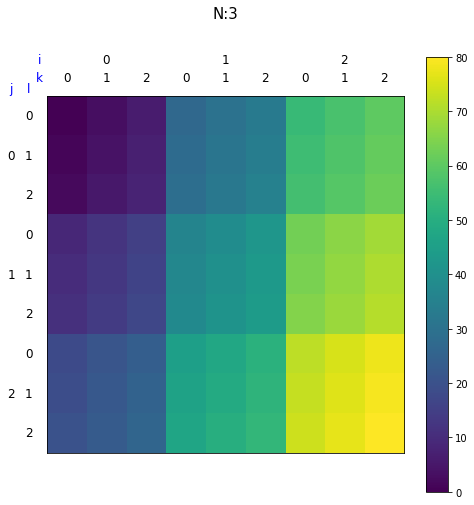
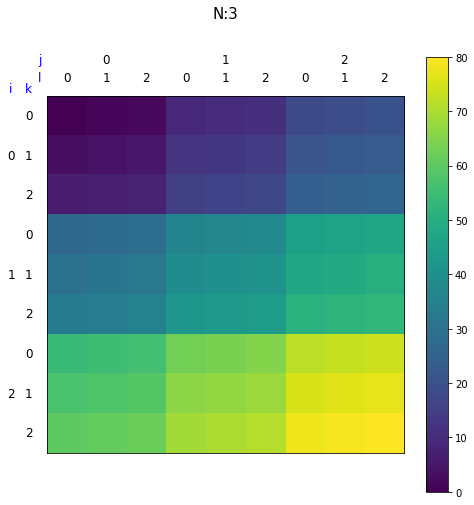
update tensorVis

diff --git a/fastwedge/tensorVis.py b/fastwedge/tensorVis.py
@@ -35,20 +35,20 @@ def __vis2dTensorKarnaugh(tensor: np.ndarray, size: int, title: str):
     listTensor = tensor.tolist()
     twoD = [
         [abs(listTensor[i][j])
-         for i in range(N)]
-        for j in range(N)
+         for j in range(N)]
+        for i in range(N)
     ]
     params = __vis_subroutine(N, twoD, size, title)
     x = 0
     for i in range(N):
-        plt.text((x+1/2)/(N), 1.05, str(i), **params)
+        plt.text(-0.05, 1-(x+1/2)/(N), str(i), **params)
         x += 1
-    plt.text(-0.02, 1.05, "i", color="blue", **params)
+    plt.text(-0.05, 1.02, "i", color="blue", **params)
     y = 0
     for j in range(N):
-        plt.text(-0.05, 1-(y+1/2)/(N), str(j),  **params)
+        plt.text((y+1/2)/(N), 1.05, str(j),  **params)
         y += 1
-    plt.text(-0.05, 1.02, "j",  color="blue", **params)
+    plt.text(-0.02, 1.05, "j",  color="blue", **params)
     plt.show()
 
 
@@ -67,26 +67,26 @@ def __vis4dTensorKarnaugh(tensor: np.ndarray, size: int, title: str):
     listTensor = tensor.tolist()
     twoD = [
         [abs(listTensor[i][j][k][l_])
-         for i, j in itertools.product(range(N), range(N))]
-        for k, l_ in itertools.product(range(N), range(N))
+         for k, l_ in itertools.product(range(N), range(N))]
+        for i, j in itertools.product(range(N), range(N))
     ]
     params = __vis_subroutine(N, twoD, size, title)
     x = 0
     for i in range(N):
-        plt.text((x+N/2)/(N*N), 1.1, str(i), **params)
+        plt.text(-0.1, 1-(x+N/2)/(N*N), str(i), **params)
         for j in range(N):
-            plt.text((x+1/2)/(N*N), 1.05, str(j),  **params)
+            plt.text(-0.05, 1-(x+1/2)/(N*N), str(j),  **params)
             x += 1
-    plt.text(-0.02, 1.1, "i", color="blue", **params)
-    plt.text(-0.02, 1.05, "j", color="blue", **params)
+    plt.text(-0.10, 1.02,  "i", color="blue", **params)
+    plt.text(-0.05, 1.02, "j", color="blue", **params)
     y = 0
     for k in range(N):
-        plt.text(-0.1, 1-(y+N/2)/(N*N), str(k),  **params)
+        plt.text((y+N/2)/(N*N), 1.10, str(k),  **params)
         for l_ in range(N):
-            plt.text(-0.05, 1-(y+1/2)/(N*N), str(l_), **params)
+            plt.text((y+1/2)/(N*N), 1.05, str(l_), **params)
             y += 1
-    plt.text(-0.1, 1.02, "k",  color="blue", **params)
-    plt.text(-0.05, 1.02, "l",  color="blue", **params)
+    plt.text(-0.02, 1.10,  "k",  color="blue", **params)
+    plt.text(-0.02, 1.05, "l",  color="blue", **params)
     plt.show()
 
 
@@ -105,32 +105,32 @@ def __vis6dTensorKarnaugh(tensor: np.ndarray, size: int, title: str):
     listTensor = tensor.tolist()
     twoD = [
         [abs(listTensor[i][j][k][l_][m][n])
-         for i, j, k in itertools.product(range(N), range(N), range(N))]
-        for l_, m, n in itertools.product(range(N), range(N), range(N))
+         for l_, m, n in itertools.product(range(N), range(N), range(N))]
+        for i, j, k in itertools.product(range(N), range(N), range(N))
     ]
     params = __vis_subroutine(N, twoD, size, title)
     x = 0
     for i in range(N):
-        plt.text((x+N*N/2)/(N*N*N), 1.15, str(i), **params)
+        plt.text(-0.15, 1-(x+N*N/2)/(N*N*N), str(i), **params)
         for j in range(N):
-            plt.text((x+N/2)/(N*N*N), 1.10, str(j),  **params)
+            plt.text(-0.10, 1-(x+N/2)/(N*N*N), str(j),  **params)
             for k in range(N):
-                plt.text((x+1/2)/(N*N*N), 1.05, str(k),  **params)
+                plt.text(-0.05, 1-(x+1/2)/(N*N*N), str(k),  **params)
                 x += 1
-    plt.text(-0.02, 1.15, "i", color="blue", **params)
-    plt.text(-0.02, 1.10, "j", color="blue", **params)
-    plt.text(-0.02, 1.05, "k", color="blue", **params)
+    plt.text(-0.15, 1.02, "i", color="blue", **params)
+    plt.text(-0.10, 1.02, "j", color="blue", **params)
+    plt.text(-0.05, 1.02, "k", color="blue", **params)
     y = 0
     for l_ in range(N):
-        plt.text(-0.15, 1-(y+N*N/2)/(N*N*N), str(l_),  **params)
+        plt.text((y+N*N/2)/(N*N*N), 1.15, str(l_),  **params)
         for m in range(N):
-            plt.text(-0.10, 1-(y+N/2)/(N*N*N), str(m), **params)
+            plt.text((y+N/2)/(N*N*N), 1.10, str(m), **params)
             for n in range(N):
-                plt.text(-0.05, 1-(y+1/2)/(N*N*N), str(n), **params)
+                plt.text((y+1/2)/(N*N*N), 1.05, str(n), **params)
                 y += 1
-    plt.text(-0.15, 1.02, "l",  color="blue", **params)
-    plt.text(-0.10, 1.02, "m",  color="blue", **params)
-    plt.text(-0.05, 1.02, "n",  color="blue", **params)
+    plt.text(-0.02, 1.15, "l",  color="blue", **params)
+    plt.text(-0.02, 1.10, "m",  color="blue", **params)
+    plt.text(-0.02, 1.05, "n",  color="blue", **params)
     plt.show()
 
 
@@ -149,78 +149,40 @@ def __vis8dTensorKarnaugh(tensor: np.ndarray, size: int, title: str):
     listTensor = tensor.tolist()
     twoD = [
         [abs(listTensor[i][j][k][l_][m][n][o][p])
-         for i, j, k, l_ in itertools.product(range(N), range(N),
-                                              range(N), range(N))]
-        for m, n, o, p in itertools.product(range(N), range(N),
-                                            range(N), range(N))
+         for m, n, o, p in itertools.product(range(N), range(N),
+                                             range(N), range(N))]
+        for i, j, k, l_ in itertools.product(range(N), range(N),
+                                             range(N), range(N))
     ]
     params = __vis_subroutine(N, twoD, size, title)
     x = 0
     for i in range(N):
-        plt.text((x+N*N*N/2)/(N*N*N*N), 1.20, str(i), **params)
+        plt.text(-0.20, 1-(x+N*N*N/2)/(N*N*N*N),  str(i), **params)
         for j in range(N):
-            plt.text((x+N*N/2)/(N*N*N*N), 1.15, str(j),  **params)
+            plt.text(-0.15, 1-(x+N*N/2)/(N*N*N*N),  str(j),  **params)
             for k in range(N):
-                plt.text((x+N/2)/(N*N*N*N), 1.10, str(k),  **params)
+                plt.text(-0.10, 1-(x+N/2)/(N*N*N*N),  str(k),  **params)
                 for l_ in range(N):
-                    plt.text((x+1/2)/(N*N*N*N), 1.05, str(l_),  **params)
+                    plt.text(-0.05, 1-(x+1/2)/(N*N*N*N),  str(l_),  **params)
                     x += 1
-    plt.text(-0.02, 1.20, "i", color="blue", **params)
-    plt.text(-0.02, 1.15, "j", color="blue", **params)
-    plt.text(-0.02, 1.10, "k", color="blue", **params)
-    plt.text(-0.02, 1.05, "l", color="blue", **params)
+    plt.text(-0.20, 1.02, "i", color="blue", **params)
+    plt.text(-0.15, 1.02, "j", color="blue", **params)
+    plt.text(-0.10, 1.02, "k", color="blue", **params)
+    plt.text(-0.05, 1.02, "l", color="blue", **params)
     y = 0
     for m in range(N):
-        plt.text(-0.20, 1-(y+N*N*N/2)/(N*N*N*N), str(m),  **params)
+        plt.text((y+N*N*N/2)/(N*N*N*N), 1.20, str(m),  **params)
         for n in range(N):
-            plt.text(-0.15, 1-(y+N*N/2)/(N*N*N*N), str(n), **params)
+            plt.text((y+N*N/2)/(N*N*N*N), 1.15, str(n), **params)
             for o in range(N):
-                plt.text(-0.10, 1-(y+N/2)/(N*N*N*N), str(o), **params)
+                plt.text((y+N/2)/(N*N*N*N), 1.10, str(o), **params)
                 for p in range(N):
-                    plt.text(-0.05, 1-(y+1/2)/(N*N*N*N), str(p), **params)
+                    plt.text((y+1/2)/(N*N*N*N), 1.05,  str(p), **params)
                     y += 1
-    plt.text(-0.20, 1.02, "m",  color="blue", **params)
-    plt.text(-0.15, 1.02, "n",  color="blue", **params)
-    plt.text(-0.10, 1.02, "o",  color="blue", **params)
-    plt.text(-0.05, 1.02, "p",  color="blue", **params)
-    plt.show()
-
-
-def vis4dTensorNest(tensor: np.ndarray, size: int = 8, title: str = None):
-    """4d tensor visualizer(Nest)
-
-    Args:
-        tensor (np.ndarray): target tensor
-        size (int, optional): size of the output img. Defaults to 8.
-        title (str, optional): title of the fig. Defaults to None.
-    """
-    N = tensor.shape[0]
-    assert len(tensor.shape) == 4, tensor.shape
-    assert len(set(tensor.shape)) == 1, tensor.shape
-    assert N**4 <= 10000000, f"N^4={N**4}, which is too big to vis."
-    listTensor = tensor.tolist()
-    twoD = [
-        [abs(listTensor[i][j][k][l])
-         for i, k in itertools.product(range(N), range(N))]
-        for j, l in itertools.product(range(N), range(N))
-    ]
-    params = __vis_subroutine(N, twoD, size, title)
-    x = 0
-    for i in range(N):
-        plt.text((x+N/2)/(N*N), 1.1, str(i), **params)
-        for k in range(N):
-            plt.text((x+1/2)/(N*N), 1.05, str(k),  **params)
-            x += 1
-    plt.text(-0.02, 1.1, "i", color="blue", **params)
-    plt.text(-0.02, 1.05, "k", color="blue", **params)
-    y = 0
-    for j in range(N):
-        plt.text(-0.1, 1-(y+N/2)/(N*N), str(j),  **params)
-        for l_ in range(N):
-            plt.text(-0.05, 1-(y+1/2)/(N*N), str(l_), **params)
-            y += 1
-    plt.text(-0.1, 1.02, "j",  color="blue", **params)
-    plt.text(-0.05, 1.02, "l",  color="blue", **params)
+    plt.text(-0.02, 1.20, "m",  color="blue", **params)
+    plt.text(-0.02, 1.15, "n",  color="blue", **params)
+    plt.text(-0.02, 1.10, "o",  color="blue", **params)
+    plt.text(-0.02, 1.05, "p",  color="blue", **params)
     plt.show()
 
 
@@ -242,3 +204,74 @@ def visTensor(tensor: np.ndarray, size: int = 8, title: str = None):
         __vis8dTensorKarnaugh(tensor, size, title)
     else:
         assert False, f"tensor.ndim must be 2,4,6, or 8, but is {tensor.ndim}"
+
+
+def vis4dTensorNest(tensor: np.ndarray, size: int = 8, title: str = None):
+    """4d tensor visualizer(Nest)
+
+    Args:
+        tensor (np.ndarray): target tensor
+        size (int, optional): size of the output img. Defaults to 8.
+        title (str, optional): title of the fig. Defaults to None.
+    """
+    N = tensor.shape[0]
+    assert len(tensor.shape) == 4, tensor.shape
+    assert len(set(tensor.shape)) == 1, tensor.shape
+    assert N**4 <= 10000000, f"N^4={N**4}, which is too big to vis."
+    listTensor = tensor.tolist()
+    twoD = [
+        [abs(listTensor[i][j][k][l])
+         for j, l in itertools.product(range(N), range(N))]
+        for i, k in itertools.product(range(N), range(N))
+    ]
+    params = __vis_subroutine(N, twoD, size, title)
+    x = 0
+    for i in range(N):
+        plt.text(-0.10, 1-(x+N/2)/(N*N), str(i), **params)
+        for k in range(N):
+            plt.text(-0.05, 1-(x+1/2)/(N*N),  str(k),  **params)
+            x += 1
+    plt.text(-0.10, 1.02,  "i", color="blue", **params)
+    plt.text(-0.05, 1.02, "k", color="blue", **params)
+    y = 0
+    for j in range(N):
+        plt.text((y+N/2)/(N*N), 1.10, str(j),  **params)
+        for l_ in range(N):
+            plt.text((y+1/2)/(N*N), 1.05, str(l_), **params)
+            y += 1
+    plt.text(-0.02, 1.10, "j",  color="blue", **params)
+    plt.text(-0.02, 1.05, "l",  color="blue", **params)
+    plt.show()
+
+
+def vis2dTensorReal(tensor: np.ndarray, size: int = 8, title: str = None):
+    """2d tensor visualizer of real
+
+    Args:
+        tensor (np.ndarray): target real tensor
+        size (int, optional): size of the output img. Defaults to 8.
+        title (str, optional): title of the fig. Defaults to None.
+    """
+    N = tensor.shape[0]
+    assert len(tensor.shape) == 2, tensor.shape
+    assert len(set(tensor.shape)) == 1, tensor.shape
+    assert N**2 <= 10000000, f"N^2={N**2}, which is too big to vis."
+    assert np.all(tensor.imag == 0.0)
+    listTensor = tensor.tolist()
+    twoD = [
+        [listTensor[i][j].real
+         for j in range(N)]
+        for i in range(N)
+    ]
+    params = __vis_subroutine(N, twoD, size, title)
+    x = 0
+    for i in range(N):
+        plt.text(-0.05, 1-(x+1/2)/(N), str(i), **params)
+        x += 1
+    plt.text(-0.05, 1.02, "i", color="blue", **params)
+    y = 0
+    for j in range(N):
+        plt.text((y+1/2)/(N), 1.05, str(j),  **params)
+        y += 1
+    plt.text(-0.02, 1.05, "j",  color="blue", **params)
+    plt.show()

diff --git a/fastwedge/__init__.py b/fastwedge/__init__.py
@@ -1,4 +1,4 @@
-from fastwedge.tensorVis import visTensor, vis4dTensorNest
+from fastwedge.tensorVis import visTensor,  vis4dTensorNest, vis2dTensorReal
 from fastwedge.kRDM import fast_compute_k_rdm
 from fastwedge.wedgeProduct import fast_wedge
 from fastwedge.wedgeTopM import fast_wedge_topM
@@ -6,6 +6,7 @@ from fastwedge.wedgeTopM import fast_wedge_topM
 __all__ = [
     "visTensor",
     "vis4dTensorNest",
+    "vis2dTensorReal",
     "fast_compute_k_rdm",
     "fast_wedge",
     "fast_wedge_topM",

diff --git a/README.md b/README.md
@@ -3,7 +3,7 @@
 縮約密度行列とwedge積の高速な計算を行います。
 
 <p align="center">
-  <img src="imgs/2RDM.png" width="50%"></img>  
+  <img src="imgs/2RDM.png" width="50%"></img>
 </p>
 
 - [fastwedge](#fastwedge)
@@ -11,6 +11,7 @@
   - [Usage](#usage)
     - [visTensor](#vistensor)
     - [vis4dTensorNest](#vis4dtensornest)
+    - [visTensor2dReal](#vistensor2dreal)
     - [fast\_compute\_k\_rdm](#fast_compute_k_rdm)
     - [fast\_wedge](#fast_wedge)
     - [fast\_wedge\_topM](#fast_wedge_topm)
@@ -33,7 +34,7 @@ Google Colab上での利用を主に想定しています。
 
 $2,4,6,8$次元のテンソルのビジュアライズを行います。
 
-$2n$ 次元のテンソルに対して、 $1,2,...,n$ 番目のindexを上側に、 $n+1,n+2,...,2n$ 番目のindexを左側に並べています。
+$2n$ 次元のテンソルに対して、 $1,2,...,n$ 番目のindexを左側に、 $n+1,n+2,...,2n$ 番目のindexを上側に並べています。
 
 以下に実行例を載せます。
 
@@ -51,7 +52,7 @@ fastwedge.visTensor(tensor)
 
 $4$ 次元のテンソルのビジュアライズを入れ子状にして行います。
 
-$4$ 次元のテンソルに対して、それを $2$ 次元配列の各要素が $2$ 次元配列であると捉え、 $1,2$ 番目のindexを上側と左側に並べた後、各要素毎に対して $3,4$ 番目のindexを再び上側と左側に並べています。
+$4$ 次元のテンソルに対して、それを $2$ 次元配列の各要素が $2$ 次元配列であると捉え、 $1,2$ 番目のindexを左側と上側に並べた後、各要素毎に対して $3,4$ 番目のindexを再び左側と上側に並べています。
 
 以下に実行例を載せます。
 
@@ -65,6 +66,11 @@ fastwedge.vis4dTensorNest(tensor)
 
 ![example_of_vis4dTensorNest](imgs/example_of_vis4dTensorNest.png)
 
+### visTensor2dReal
+
+$2$次元のテンソルのビジュアライズを行います。
+
+ただし、これは実数のテンソルのみを入力として受け付け、絶対値ではなくそのままの値を表示させます。
 
 ### fast_compute_k_rdm
 
